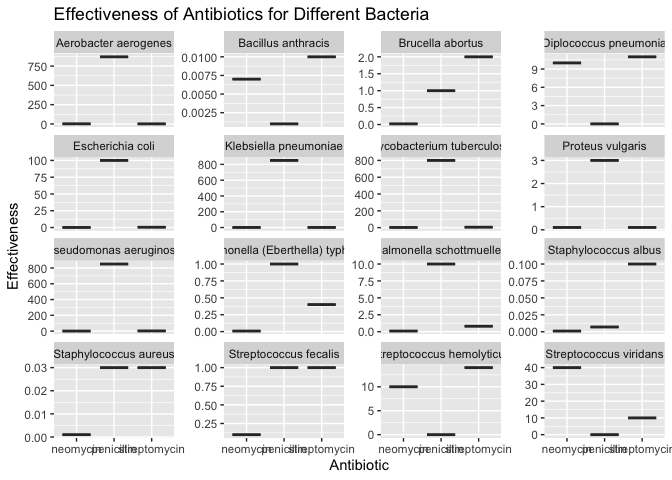
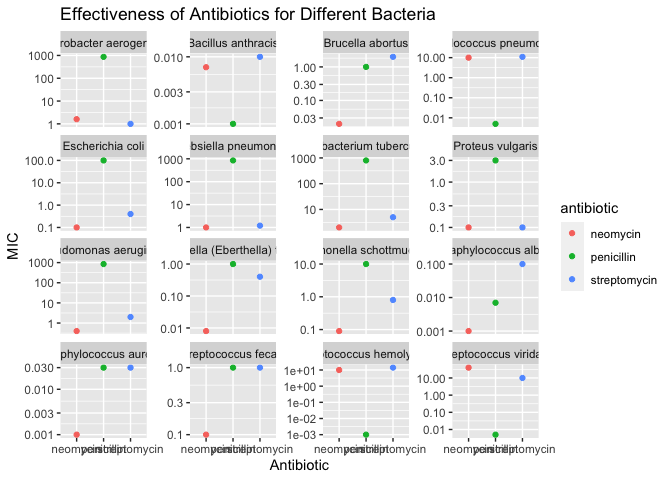
c05 resubmission

diff --git a/challenges/c05-antibiotics-assignment.md b/challenges/c05-antibiotics-assignment.md
@@ -185,34 +185,38 @@ positive or negative.
 # WRITE YOUR CODE HERE
 df_antibiotics_longer <-pivot_longer(df_antibiotics, cols = c(penicillin, streptomycin, neomycin), 
                                      names_to = "antibiotic", 
-                                     values_to = "effectiveness")
+                                     values_to = "MIC")
 df_antibiotics_longer
 ```
 
     ## # A tibble: 48 × 4
-    ##    bacteria              gram     antibiotic   effectiveness
-    ##    <chr>                 <chr>    <chr>                <dbl>
-    ##  1 Aerobacter aerogenes  negative penicillin         870    
-    ##  2 Aerobacter aerogenes  negative streptomycin         1    
-    ##  3 Aerobacter aerogenes  negative neomycin             1.6  
-    ##  4 Brucella abortus      negative penicillin           1    
-    ##  5 Brucella abortus      negative streptomycin         2    
-    ##  6 Brucella abortus      negative neomycin             0.02 
-    ##  7 Bacillus anthracis    positive penicillin           0.001
-    ##  8 Bacillus anthracis    positive streptomycin         0.01 
-    ##  9 Bacillus anthracis    positive neomycin             0.007
-    ## 10 Diplococcus pneumonia positive penicillin           0.005
+    ##    bacteria              gram     antibiotic       MIC
+    ##    <chr>                 <chr>    <chr>          <dbl>
+    ##  1 Aerobacter aerogenes  negative penicillin   870    
+    ##  2 Aerobacter aerogenes  negative streptomycin   1    
+    ##  3 Aerobacter aerogenes  negative neomycin       1.6  
+    ##  4 Brucella abortus      negative penicillin     1    
+    ##  5 Brucella abortus      negative streptomycin   2    
+    ##  6 Brucella abortus      negative neomycin       0.02 
+    ##  7 Bacillus anthracis    positive penicillin     0.001
+    ##  8 Bacillus anthracis    positive streptomycin   0.01 
+    ##  9 Bacillus anthracis    positive neomycin       0.007
+    ## 10 Diplococcus pneumonia positive penicillin     0.005
     ## # … with 38 more rows
 
 ``` r
+color_scale <- scale_color_gradient(low = "blue", high = "red")
+
+shape_scale <- scale_shape_manual(values = c(22, 21))
+
 df_antibiotics_longer %>% 
-  ggplot(aes(x = bacteria, y = effectiveness, shape = antibiotic, color = gram)) +
+  ggplot(aes(x = antibiotic, y = bacteria, color = MIC, shape = gram)) +
   geom_point(size = 3) +
-  scale_shape_manual(values = c(17, 18, 15)) +
-  scale_color_manual(values = c("red", "blue"), labels = c("Gram-positive", "Gram-negative")) +
-  labs(x = "Bacteria", y = "MIC Score", shape = "Antibiotic", color = "Gram Status") +
-  theme_classic() +
-  theme(axis.text.x = element_text(angle = 90, vjust = 0.5, hjust = 1))
+  xlab("Bacteria") +
+  ylab("Antibiotic") +
+  ggtitle("Minimum Inhibitory Concentration (MIC)") +
+  color_scale +
+  shape_scale
 ```
 
 ![](c05-antibiotics-assignment_files/figure-gfm/q1.1-1.png)<!-- -->
@@ -229,13 +233,14 @@ your other visuals.
 ``` r
 # WRITE YOUR CODE HERE
 df_antibiotics_longer %>% 
-ggplot( aes(x = bacteria, y = effectiveness, fill = antibiotic)) +
+ggplot( aes(x = bacteria, y = MIC, fill = antibiotic)) +
   geom_bar(stat = "identity", position = position_dodge()) +
-  facet_wrap(~gram, scales = "free_y") +
-  labs(title = "Antibiotic effectiveness by bacteria and gram stain",
+  facet_wrap(~gram, scales = "free") +
+  labs(title = "MIC by bacteria and gram stain",
        x = "Bacteria", y = "MIC Score",
        fill = "Antibiotic") +
-  theme(axis.text.x = element_text(angle = 90, vjust = 0.5, hjust = 1))
+  theme(axis.text.x = element_text(angle = 90, vjust = 0.5, hjust = 1)) +
+  scale_y_log10()
 ```
 
 ![](c05-antibiotics-assignment_files/figure-gfm/q1.2-1.png)<!-- -->
@@ -252,12 +257,13 @@ your other visuals.
 ``` r
 # WRITE YOUR CODE HERE
 df_antibiotics_longer %>% 
-ggplot( aes(x = antibiotic, y = effectiveness)) + 
-  geom_boxplot(fill = "#69b3a2") +
+ggplot( aes(x = antibiotic, y = MIC, color = antibiotic)) + 
+  geom_point() +
   facet_wrap(~bacteria, scales = "free_y") +
   labs(title = "Effectiveness of Antibiotics for Different Bacteria",
        x = "Antibiotic",
-       y = "Effectiveness")
+       y = "MIC") + 
+  scale_y_log10()
 ```
 
 ![](c05-antibiotics-assignment_files/figure-gfm/q1.3-1.png)<!-- -->
@@ -275,10 +281,10 @@ your other visuals.
 # WRITE YOUR CODE HERE
 
 df_antibiotics_longer %>% 
-  filter(effectiveness < 3 ) %>% 
+  filter(MIC < 3 ) %>% 
   ggplot(aes(x = antibiotic, y = bacteria)) +
-  geom_point(aes(size = effectiveness)) +
-  geom_point(data = filter(df_antibiotics_longer, effectiveness <= 0.1),
+  geom_point(aes(size = MIC)) +
+  geom_point(data = filter(df_antibiotics_longer, MIC <= 0.1),
              aes(color = "MIC score <= 0.1"), size = 3) +
   labs(x = "Antibiotic", y = "Bacteria") +
   theme_classic() +
@@ -302,9 +308,9 @@ your other visuals.
 # WRITE YOUR CODE HERE
 
 df_antibiotics_longer %>% 
-  filter(effectiveness < 30 ) %>% 
+  filter(MIC < 30 ) %>% 
   ggplot() + 
-  geom_point(mapping = aes(x = bacteria, y = effectiveness, color = antibiotic), size = 2) +
+  geom_point(mapping = aes(x = bacteria, y = MIC, color = antibiotic), size = 2) +
   coord_flip() + 
   facet_grid(~ gram)
 ```
@@ -358,6 +364,12 @@ negative grams stain.
 
 #### Guiding Question 2
 
+You could instead talk about how MIC values reflect something about the
+biological structure of a bacteria. Given that relationship between MIC
+and biological structure, you can make an argument about how similar MIC
+values across bacteria might relate to similar biological structure (a
+more sound reasoning for renaming a bacterium). 
+
 In 1974 *Diplococcus pneumoniae* was renamed *Streptococcus pneumoniae*,
 and in 1984 *Streptococcus fecalis* was renamed *Enterococcus fecalis*
 \[2\].
@@ -367,10 +379,15 @@ and in 1984 *Streptococcus fecalis* was renamed *Enterococcus fecalis*
 
 *Observations*
 
-\- What is your response to the question above? - because it has similar
-responses to penicillin as the streptococcus bacteria. As well as the
-fact that a negative grams affects it as well, which is also similar to
-the streptococcus family. Therefor they grouped it with them.
+\- What is your response to the question above? - because *Diplococcus
+pneumoniae* has similar responses to penicillin as bacteria in the
+streptococcus family it may have a similar biological structure. We also
+know that there is also a relationship between MIC values, and the
+biological structures of bacteria because the structure can effect how
+well an antibiotic is at treating the bacteria. Therefor I am making the
+assumption that due to their similar MIC values and reactions to similar
+antibiotics, they made the assumption that the bacterial structure may
+place it in the pneumonia family.
 
 \- Which of your visuals above (1 through 5) is **most effective** at
 helping to answer this question? - 5
